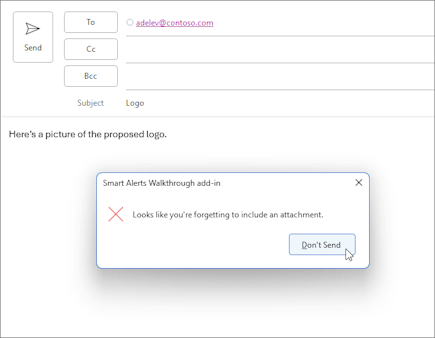
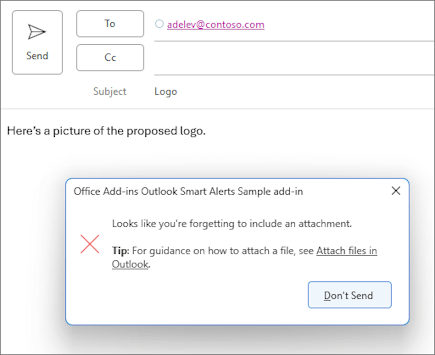
Document Markdown support

diff --git a/docs/outlook/smart-alerts-onmessagesend-walkthrough.md b/docs/outlook/smart-alerts-onmessagesend-walkthrough.md
@@ -1,7 +1,7 @@
 ---
 title: Automatically check for an attachment before a message is sent
 description: Learn how to implement an event-based add-in that implements Smart Alerts to automatically check a message for an attachment before it's sent.
-ms.date: 11/14/2023
+ms.date: 02/16/2024
 ms.topic: how-to
 ms.localizationpriority: medium
 ---
@@ -223,7 +223,7 @@ To configure the manifest, select the tab for the type of manifest you are using
 
 You have to implement handling for your selected event.
 
-In this scenario, you'll add handling for sending a message. Your add-in will check for certain keywords in the message. If any of those keywords are found, it will then check if there are any attachments. If there are no attachments, your add-in will recommend to the user to add the possibly missing attachment.
+In this scenario, you'll add handling for sending a message. Your add-in will check for certain keywords in the message. If any of those keywords are found, it will then check for any attachments. If there are no attachments, your add-in will recommend to the user to add the possibly missing attachment.
 
 1. From the same quick start project, create a new folder named **launchevent** under the **./src** directory.
 
@@ -296,12 +296,29 @@ In this scenario, you'll add handling for sending a message. Your add-in will ch
 
         event.completed({
           allowEvent: false,
-          errorMessage: "Looks like the body of your message includes an image or an inline file. Attach a copy to the message before sending."
+          errorMessage: `
+            Looks like the body of your message includes an image or an inline file.
+            Attach a copy to the message before sending.`,
+          // TIP: In addition to the formatted message, it's recommended to also set a
+          // plain text message in the errorMessage property for compatibility on
+          // older versions of Outlook clients.
+          errorMessageMarkdown: `
+            Looks like the body of your message includes an image or an inline file.
+            Attach a copy to the message before sending.\n\n
+            **Tip**: For guidance on how to attach a file, see
+            [Attach files in Outlook](https://support.microsoft.com/office/48b8dca1-7a76-43ce-97d1-e1cf73893f55).`
         });
       } else {
         event.completed({
           allowEvent: false,
-          errorMessage: "Looks like you're forgetting to include an attachment."
+          errorMessage: "Looks like you're forgetting to include an attachment.",
+          // TIP: In addition to the formatted message, it's recommended to also set a
+          // plain text message in the errorMessage property for compatibility on
+          // older versions of Outlook clients.
+          errorMessageMarkdown: `
+            Looks like you're forgetting to include an attachment.\n\n
+            **Tip**: For guidance on how to attach a file, see
+            [Attach files in Outlook](https://support.microsoft.com/office/48b8dca1-7a76-43ce-97d1-e1cf73893f55).`
         });
       }
     }
@@ -356,7 +373,17 @@ To modify the text of the **Don't Send** button or assign it a task pane command
 
         event.completed({
           allowEvent: false,
-          errorMessage: "Looks like the body of your message includes an image or an inline file. Attach a copy to the message before sending.",
+          errorMessage: `
+            Looks like the body of your message includes an image or an inline file.
+            Attach a copy to the message before sending.`,
+          // TIP: In addition to the formatted message, it's recommended to also set a
+          // plain text message in the errorMessage property for compatibility on
+          // older versions of Outlook clients.
+          errorMessageMarkdown: `
+            Looks like the body of your message includes an image or an inline file.
+            Attach a copy to the message before sending.\n\n
+            **Tip**: For guidance on how to attach a file, see
+            [Attach files in Outlook](https://support.microsoft.com/office/48b8dca1-7a76-43ce-97d1-e1cf73893f55).`,
           cancelLabel: "Add an attachment",
           commandId: "msgComposeOpenPaneButton"
         });
@@ -364,6 +391,13 @@ To modify the text of the **Don't Send** button or assign it a task pane command
         event.completed({
           allowEvent: false,
           errorMessage: "Looks like you're forgetting to include an attachment.",
+          // TIP: In addition to the formatted message, it's recommended to also set a
+          // plain text message in the errorMessage property for compatibility on
+          // older versions of Outlook clients.
+          errorMessageMarkdown: `
+            Looks like you're forgetting to include an attachment.\n\n
+            **Tip**: For guidance on how to attach a file, see
+            [Attach files in Outlook](https://support.microsoft.com/office/48b8dca1-7a76-43ce-97d1-e1cf73893f55).`,
           cancelLabel: "Add an attachment",
           commandId: "msgComposeOpenPaneButton"
         });
@@ -400,7 +434,17 @@ To override the send mode option at runtime, you must set the [sendModeOverride]
 
         event.completed({
           allowEvent: false,
-          errorMessage: "Looks like the body of your message includes an image or an inline file. Would you like to attach a copy of it to the message?",
+          errorMessage: `
+            Looks like the body of your message includes an image or an inline file.
+            Would you like to attach a copy of it to the message?`,
+          // TIP: In addition to the formatted message, it's recommended to also set a
+          // plain text message in the errorMessage property for compatibility on
+          // older versions of Outlook clients.
+          errorMessageMarkdown: `
+            Looks like the body of your message includes an image or an inline file.
+            Would you like to attach a copy of it to the message?\n\n
+            **Tip**: For guidance on how to attach a file, see
+            [Attach files in Outlook](https://support.microsoft.com/office/48b8dca1-7a76-43ce-97d1-e1cf73893f55).`,
           cancelLabel: "Attach a copy",
           commandId: "msgComposeOpenPaneButton",
           sendModeOverride: Office.MailboxEnums.SendModeOverride.PromptUser
@@ -409,6 +453,13 @@ To override the send mode option at runtime, you must set the [sendModeOverride]
         event.completed({
           allowEvent: false,
           errorMessage: "Looks like you're forgetting to include an attachment.",
+          // TIP: In addition to the formatted message, it's recommended to also set a
+          // plain text message in the errorMessage property for compatibility on
+          // older versions of Outlook clients.
+          errorMessageMarkdown: `
+            Looks like you're forgetting to include an attachment.\n\n
+            **Tip**: For guidance on how to attach a file, see
+            [Attach files in Outlook](https://support.microsoft.com/office/48b8dca1-7a76-43ce-97d1-e1cf73893f55).`,
           cancelLabel: "Add an attachment",
           commandId: "msgComposeOpenPaneButton"
         });

diff --git a/docs/outlook/onmessagesend-onappointmentsend-events.md b/docs/outlook/onmessagesend-onappointmentsend-events.md
@@ -1,7 +1,7 @@
 ---
 title: Handle OnMessageSend and OnAppointmentSend events in your Outlook add-in with Smart Alerts
 description: Learn about the Smart Alerts implementation and how it handles the OnMessageSend and OnAppointmentSend events in your event-based Outlook add-in.
-ms.date: 12/19/2023
+ms.date: 02/16/2024
 ms.topic: concept-article
 ms.localizationpriority: medium
 ---
@@ -179,10 +179,67 @@ In addition to these constraints, only one instance each of the `OnMessageSend` 
 While you can change the Smart Alerts dialog message and **Don't Send** button to suit your add-in scenario, the following can't be customized.
 
 - The dialog's title bar. Your add-in's name is always displayed there.
-- The message's format. For example, you can't change the text's font size and color or insert a bulleted list.
+- The font or color of the dialog message. However, you can use Markdown to format certain elements of your message. For a list of supported elements, see [Limitations to formatting the dialog message using Markdown](#limitations-to-formatting-the-dialog-message-using-markdown).
 - Dialogs that provide information on event processing and progress. For example, the text and options that appear in the timeout and long-running operation dialogs can't be changed.
 
+### Limitations to customizing the Don't Send button
+
 If you customize the **Don't Send** button in the dialog, you can only assign a task pane command to it. Function commands aren't supported. If you select a **Don't Send** button with an assigned function command, the command is ignored and the add-in cancels the send operation and closes the dialog. When this occurs, no error is shown or logged. For guidance on the types of add-in commands, see [Types of add-in commands](../design/add-in-commands.md#types-of-add-in-commands).
+
+### Limitations to formatting the dialog message using Markdown
+
+You can use Markdown to format the message of a Smart Alerts dialog. However, only the following elements are supported.
+
+- Bold, italic, or bold and italic text. Both the [asterisk (*) and underscore (_) formats](https://www.markdownguide.org/basic-syntax/#emphasis) are supported.
+
+    ```javascript
+    event.completed({
+      allowEvent: false,
+      ...
+      errorMessageMarkdown: "**Important**: Apply the appropriate sensitivity label to your message before sending."
+    });
+    ```
+
+    :::image type="content" source="../images/outlook-smart-alerts-bold.png" alt-text="A sample Smart Alerts dialog with bold text.":::
+
+- Unordered or bulleted lists. To create an item in the list, begin with a dash (`-`) or asterisk (`*`), add the content, then append `\r` to signify item completion.
+
+    ```javascript
+    event.completed({
+      allowEvent: false,
+      ...
+      errorMessageMarkdown: "Your email doesn't meet company guidelines.\n\nFor additional assistance, contact the IT Service Desk:\n\n- Phone number: 425-555-0102\r- Email: it@contoso.com\r- Website: [Contoso IT Service Desk](https://www.contoso.com/it-service-desk)\r"
+    });
+    ```
+
+    :::image type="content" source="../images/outlook-smart-alerts-list.png" alt-text="A sample Smart Alerts dialog containing a bulleted list.":::
+
+- Links. To create a link, enclose your link text in square brackets (`[]`), then enclose the URL in parentheses (`()`). The angle brackets format (`<>`) isn't supported.
+
+    ```javascript
+    event.completed({
+      allowEvent: false,
+      ...
+      errorMessageMarkdown: "Need onsite assistance on the day of your meeting? Visit the [Contoso Facilities](https://www.contoso.com/facilities/meetings) page to learn more."
+    });
+    ```
+
+    :::image type="content" source="../images/outlook-smart-alerts-link.png" alt-text="A sample Smart Alerts dialog containing a link.":::
+
+- New lines. Use `\n\n` to create a new line.
+
+    ```javascript
+    event.completed({
+      allowEvent: false,
+      ...
+      errorMessageMarkdown: "Add a personalized user avatar to your signature today!\n\nTo customize your signature, visit [Customize my email signature](https://www.fabrikam.com/marketing/customize-email-signature)."
+    });
+    ```
+
+    :::image type="content" source="../images/outlook-smart-alerts-new-line.png" alt-text="A sample Smart Alerts dialog containing a new line in the message.":::
+
+> [!TIP]
+> To escape characters in your message, such as an asterisk, add a backslash (`\`) before the character.
 
 ## Debug your add-in
 
